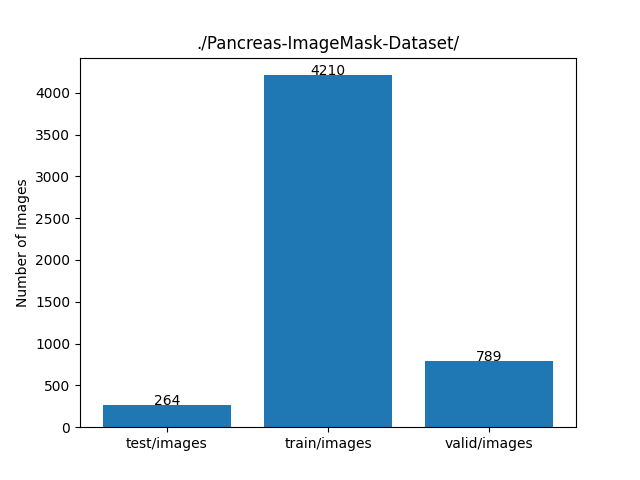
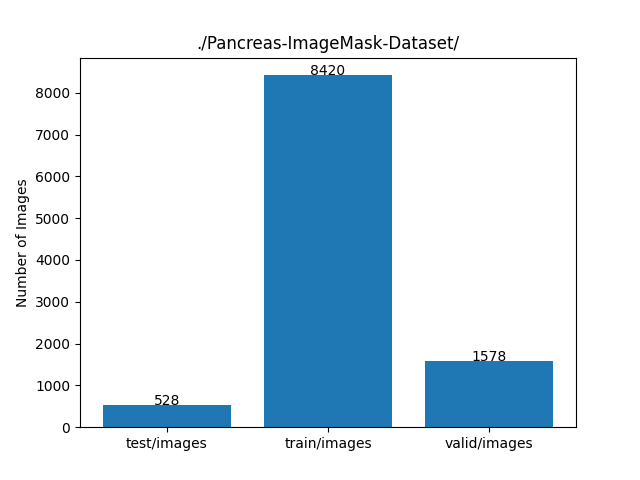
Updated ImageMaskDatasetGenerator.py

diff --git a/generator/ImageMaskDatasetGenerator.py b/generator/ImageMaskDatasetGenerator.py
@@ -14,7 +14,8 @@
 #
 # ImageMaskDatasetGenerator.py
 #
-
+# 2024/02/08 Modified to create the mirrored images and masks.
+ 
 import os
 import glob
 import pydicom
@@ -26,9 +27,10 @@ import traceback
 
 class ImageMaskDatasetGenerator:
 
-  def __init__(self, dcms_dir="./Pancreas-CT/", labels_dir="./TCIA_pancreas_labels-02-05-2017/"):
+  def __init__(self, dcms_dir="./Pancreas-CT/", labels_dir="./TCIA_pancreas_labels-02-05-2017/", mirrored=False):
     self.dcms_dir   = dcms_dir
     self.labels_dir = labels_dir
+    self.mirrored   = mirrored
     self.subdirs    = sorted(os.listdir(self.dcms_dir))
     self.NUM_SUBDIRS = len(self.subdirs)
 
@@ -42,14 +44,13 @@ class ImageMaskDatasetGenerator:
        os.makedirs(masks_dir)
 
     print(" len dicms_dir {}".format( self.NUM_SUBDIRS))
-    #subdirs = ["PANCREAS_0001"]
-    #for subdir in subdirs:
+  
     for subdir in self.subdirs:
-
       if subdir == "LICENSE":
         continue
       if subdir == "PANCREAS_0063":
         continue
+
       print(" --- subdir {}".format(subdir))
       mask_nii      = "label" + subdir.split("_")[1] + ".nii"
 
@@ -65,8 +66,7 @@ class ImageMaskDatasetGenerator:
       if (num_mask_files != num_dcm_file):
         print("UNMATCHED ----------- {} {}".format(num_mask_files, num_dcm_file))
         continue
-      debug = True
-      dcm_file = dcm_files[0]
+
       for dcm_file in dcm_files:
         basename = os.path.basename(dcm_file)
         name     = basename.split(".")[0]
@@ -75,20 +75,33 @@ class ImageMaskDatasetGenerator:
         filename =  subdir + "-" + name + ".jpg"
         corresponding_mask_filepath = os.path.join(masks_dir, filename)
         if os.path.exists(corresponding_mask_filepath):
-        #if debug:
-          image_file = os.path.join(images_dir, filename)
-          self.generate_image_file(dcm_file, image_file)
+          self.generate_image_file(dcm_file, subdir, images_dir)
         else:
           print("=== Skipped {}".format(filename))
 
-  def generate_image_file(self, dcm_file, image_file):
-    dcm = pydicom.dcmread(dcm_file)
-    img = dcm.pixel_array
-    image = Image.fromarray(img)
-    image = image.convert("RGB")
+  def generate_image_file(self, dcm_file, subdir, images_dir):
+    dcm      = pydicom.dcmread(dcm_file)
+    img      = dcm.pixel_array
+    image    = Image.fromarray(img)
+    image    = image.convert("RGB")
+
+    basename = os.path.basename(dcm_file)
+    name     = basename.split(".")[0]
+    name     = name.replace("-", "")
+    print("=== dcm file {}". format(dcm_file))
+    filename =  subdir + "-" + name + ".jpg"
+    image_file = os.path.join(images_dir, filename)
     image.save(image_file, "JPEG")
     print("Saved image {}".format(image_file))
-    
+
+    if self.mirrored:
+      mirrored_image = ImageOps.mirror(image)
+      mirrored_filename =  subdir + "-mirrored-" + name + ".jpg"
+      image_file = os.path.join(images_dir, filename)
+      mirrored_output_file = os.path.join(images_dir, mirrored_filename)
+      mirrored_image.save(mirrored_output_file)
+      print("=== Saved image {}".format(mirrored_output_file))
+
   def generate_mask_files(self, mask_nii_file, subdir, masks_dir):
     nii = nib.load(mask_nii_file)
     fdata = nii.get_fdata()
@@ -96,7 +109,6 @@ class ImageMaskDatasetGenerator:
   
     num = shape[2]
     index = 1001
-    debug = True
     for i in range(num):
       data = fdata[:,:,i]
       data = data * 255.0
@@ -104,16 +116,20 @@ class ImageMaskDatasetGenerator:
       filename = subdir + "-" + str(index+ i) + ".jpg"
       output_file = os.path.join(masks_dir, filename)
       if data.any() >0:
-      #if debug:
         image = Image.fromarray(data)
         image = image.convert("RGB")
         image = image.rotate(90)
-        #image = ImageOps.mirror(image)
         image = ImageOps.flip(image)
-
         image.save(output_file)
         print("=== Saved mask {}".format(output_file))
-        #input("-------------------------")
+
+        if self.mirrored:
+          mirrored_image = ImageOps.mirror(image)
+          mirrored_filename = subdir + "-mirrored-" +str(index+ i) + ".jpg"
+          mirrored_output_file = os.path.join(masks_dir, mirrored_filename)
+          mirrored_image.save(mirrored_output_file)
+          print("=== Saved mask {}".format(mirrored_output_file))
+
       else:
         print("=== Skipped {}".format(output_file))
     return num
@@ -121,7 +137,6 @@ class ImageMaskDatasetGenerator:
 if __name__ == "__main__":
   try:
     input_file = ""
-    #convert(input_file)
     dcms_dir    = "./Pancreas-CT/"
     labels_dir  = "./TCIA_pancreas_labels-02-05-2017/"
 
@@ -132,7 +147,7 @@ if __name__ == "__main__":
     if not os.path.exists(output_dir):
       os.makedirs(output_dir)
 
-    generator = ImageMaskDatasetGenerator(dcms_dir=dcms_dir, labels_dir=labels_dir)
+    generator = ImageMaskDatasetGenerator(dcms_dir=dcms_dir, labels_dir=labels_dir, mirrored=True)
     generator.generate(output_dir)
     
   except:

diff --git a/README.md b/README.md
@@ -1,5 +1,6 @@
-<h2>Pancreas-ImageMask-Dataset (2024/02/07)</h2>
+<h2>Pancreas-ImageMask-Dataset (Updated: 2024/02/09)</h2>
 This is a Pancreas ImageMask dataset for Image Segmentation.<br>  
+<li>2024/02/09: Modified <a href="./generator/ImageMaskDatasetGenerator.py">ImageMaskDatasetGenerator.py</a> to create the mirrored images and masks.</li><br>
 
 <h3>1. Dataset Citation</h3>
 
@@ -182,9 +183,14 @@ blended
 </table>
 <br>
 <h3>
-4. Download Pancreas-ImageMask-Dataset.zip
+4. Download Pancreas-ImageMask-Dataset
 </h3>
 
-You can download this dataset from the following google drive 
+You can download the augmented V2 dataset including mirrored images and masks:<br>
+
+<a href="https://drive.google.com/file/d/14DFkGFjm02vORDjvC1q8v0p--E3Ngg9L/view?usp=sharing">
+Pancreas-ImageMask-Dataset_V2.0.zip</a><br>
+, and also the previous V1 dataset:<br>
 <a href="https://drive.google.com/file/d/1Q7cDMSQgtXgZJjg-xIiFHmXOyNn3vio1/view?usp=sharing">Pancreas-ImageMask-Dataset_V1.zip</a>
+
 <br>
